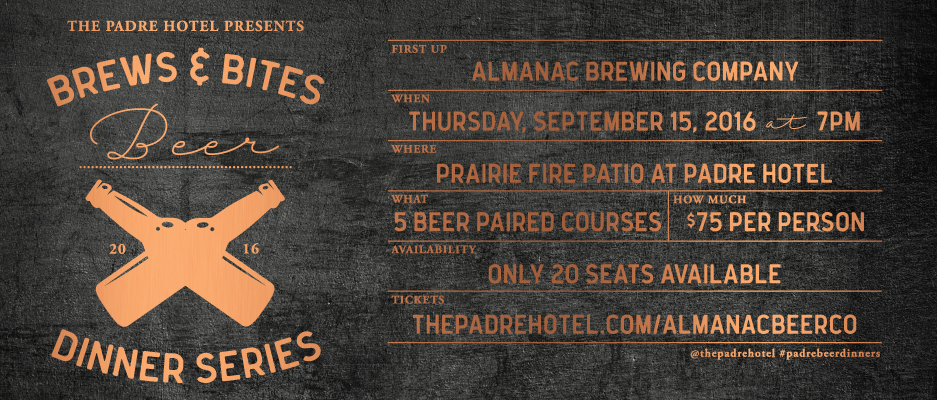
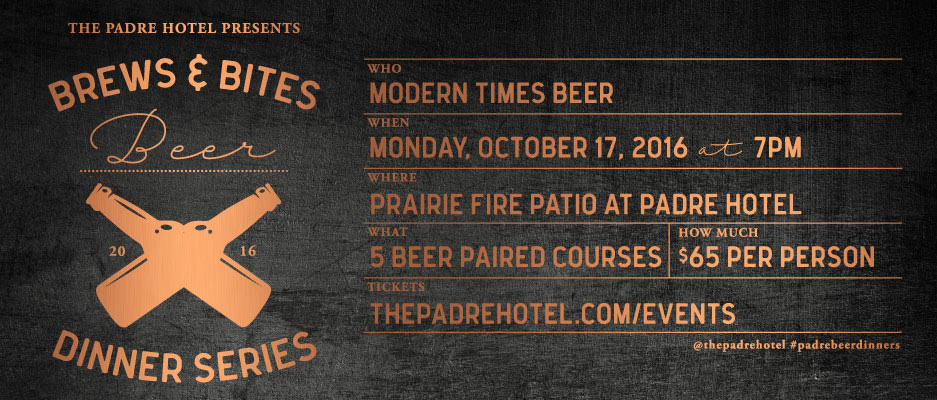
event page updated 2 events

diff --git a/_layouts/events.html b/_layouts/events.html
@@ -23,6 +23,44 @@ layout: default
           
           
            
+           <div  class="event-list">
+            <h5 >Party at Prospect this Halloween</h5>
+            <img src="/assets/images/events/party-at-prospect-this-Halloween.jpg" class="img-width" alt=""/>
+            <div class="row ">
+              <div class="col-md-6">
+                <p  class="description">Get into the spirit with beats from DJ Kimble and drink specials all night. $10 cover after 10pm.</p>
+              </div>
+              <div class="col-md-6 link-container">
+                <div class="ticket"><span>
+                  <h6>Bottle service available</h6>
+                  </span>
+                  <a href="tel:6614274900">Call: 661.427.4900</a>
+                </div>
+              </div>
+            </div>
+          </div>
+          
+          
+          
+           <div  class="event-list">
+            <h5 >Brews & Bites Beer Dinner Series</h5>
+            <img src="/assets/images/events/PADRE_BeerDinner_WebCalendar.jpg" class="img-width" alt=""/>
+            <div class="row ">
+              <div class="col-md-6">
+                <p  class="description">Modern Times BreweryJoin us on October 17th at 7pm as we pair with Modern Times Brewery for the 4th event of our Brews & Bites beer dinner series! Enjoy 5 courses prepared by Chef Chris and perfectly paired with extremely limited Modern Times brews. Space at this intimate table is limited! Buy your $75 seat today!</p>
+              </div>
+              <div class="col-md-6 link-container">
+                <div class="ticket"><span>
+                 <div class="transparant-button "><a href="https://www.eventbrite.com/e/brews-bites-featuring-modern-times-brewery-tickets-27947753483" target="_blank" class="hover-transition">BUY TICKETS</a></div>
+                  </span>
+                 
+                </div>
+              </div>
+            </div>
+          </div>
+          
+          
+          
           
            <div id="fallwine" class="event-list">
             <h5 >FALL WINE SERIES</h5>
